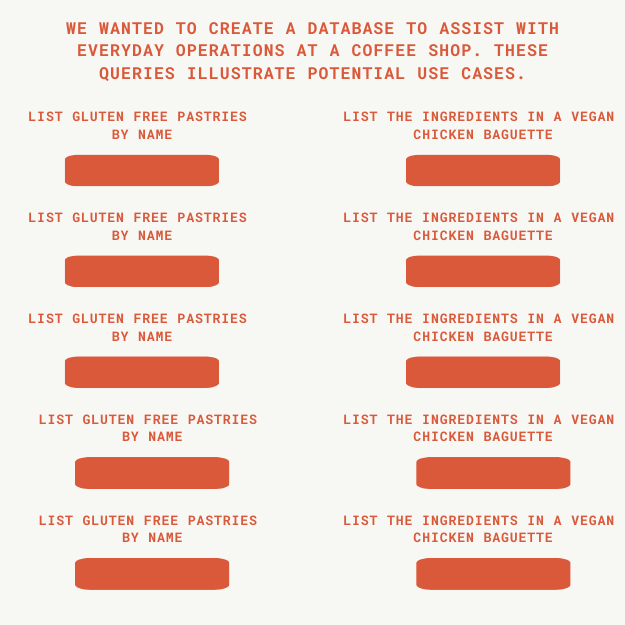
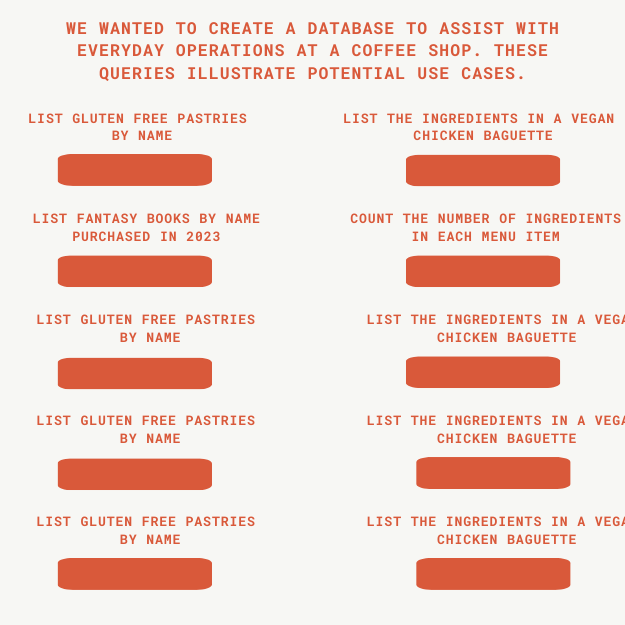
homescreen edit, more queries added

diff --git a/pyScriptsDB/GUI.py b/pyScriptsDB/GUI.py
@@ -94,6 +94,14 @@ class DBInterface(wx.Frame): # dbinterface extends wx.frame
         button.SetPosition((100, 144))
         # vbox.Add(button, flag=wx.EXPAND | wx.ALL, border=10)
 
+        button_fantasy = wx.Button(self.pnl, label="Run Query")
+        button_fantasy.Bind(wx.EVT_BUTTON, self.button_click_fantasy_books)
+        button_fantasy.SetPosition((100, 237))
+
+        button_ingredient= wx.Button(self.pnl, label="Run Query")
+        button_ingredient.Bind(wx.EVT_BUTTON, self.button_click_ingredient)
+        button_ingredient.SetPosition((415, 237))
+
         # self.pnl.SetSizer(vbox)
 
         self.Layout()
@@ -164,6 +172,81 @@ class DBInterface(wx.Frame): # dbinterface extends wx.frame
             vbox.Add(text, proportion=1, flag=wx.EXPAND | wx.ALL, border=20)
             query_pnl.SetSizer(vbox)
 
+
+            query_frame.Centre()
+            query_frame.Show()
+        
+        except Exception as e:
+            print(f"error {e}")
+    
+
+    def button_click_fantasy_books(self, event):
+        '''
+        runs query for fantasy books
+        '''
+
+        try:
+            query = """
+            SELECT B.Title
+            FROM Books as B
+            JOIN Skews AS S ON S.Skew = B.ISBN
+            JOIN Sales_Item AS SI on SI.Item = S.Skew
+            JOIN Sales AS SAL on SAL.Sale_ID = SI.Sale_ID
+            WHERE B. Genre = 'Fantasy' AND YEAR(SAL.Sale_Date) = 2023;
+            """
+            self.curr.execute(query)
+            result = (self.curr.fetchall())
+
+            query_frame = wx.Frame(self, title="Fantasy Books Bought in 2023:", size=(400, 300))
+            query_pnl = wx.Panel(query_frame)
+            vbox = wx.BoxSizer(wx.VERTICAL)
+
+            text = wx.TextCtrl(query_pnl, style=wx.TE_MULTILINE | wx.TE_READONLY)
+
+            for row in result:
+                book = row[0]
+                text.AppendText(f"{book}\n")
+
+            vbox.Add(text, proportion=1, flag=wx.EXPAND | wx.ALL, border=10)
+            query_pnl.SetSizer(vbox)
+
+            query_frame.Centre()
+            query_frame.Show()
+        
+        except Exception as e:
+            print(f"error {e}")
+    
+    def button_click_ingredient(self, event):
+        '''
+        runs query for dietary pastries (can be used in place of allergens table)
+        '''
+
+        try:
+            query = """
+            SELECT M.ItemName, COUNT(I.IngredientName) AS IngredientCount
+            FROM Recipes AS R
+            JOIN Menu AS M ON R.MenuItemSkew = M.MenuItemSkew
+            JOIN Ingredients AS I ON R.IngredientSkew = I.IngredientSkew
+            GROUP BY M.ItemName
+            ORDER BY M.ItemName;
+            """
+
+            self.curr.execute(query)
+            result = (self.curr.fetchall())
+
+            query_frame = wx.Frame(self, title="Number of Ingredients in Each Menu Item:", size=(400, 300))
+            query_pnl = wx.Panel(query_frame)
+            vbox = wx.BoxSizer(wx.VERTICAL)
+
+            text = wx.TextCtrl(query_pnl, style=wx.TE_MULTILINE | wx.TE_READONLY)
+
+            for row in result:
+                name = row[0]
+                count = row[1]
+                text.AppendText(f"{name}: {count}\n")
+
+            vbox.Add(text, proportion=1, flag=wx.EXPAND | wx.ALL, border=10)
+            query_pnl.SetSizer(vbox)
 
             query_frame.Centre()
             query_frame.Show()

diff --git a/pyScriptsDB/Queries.py b/pyScriptsDB/Queries.py
@@ -98,5 +98,23 @@ print(curr.fetchall())
 print("-"*50)
 
 
+# fantasy books bought in 2023
+query7 = """
+SELECT B.Title, B.Genre
+FROM Books as B
+JOIN Skews AS S ON S.Skew = B.ISBN
+JOIN Sales_Item AS SI on SI.Item = S.Skew
+JOIN Sales AS SAL on SAL.Sale_ID = SI.Sale_ID
+WHERE B. Genre = 'Fantasy' AND YEAR(SAL.Sale_Date) = 2023;
+"""
+curr.execute(query7)
+print(curr.fetchall())
+print("-"*50)
+
+# month with the most sales
+query8 = """
+SELECT MONTH(Sale_Date)"""
+
+
 curr.close()
 conn.close()
